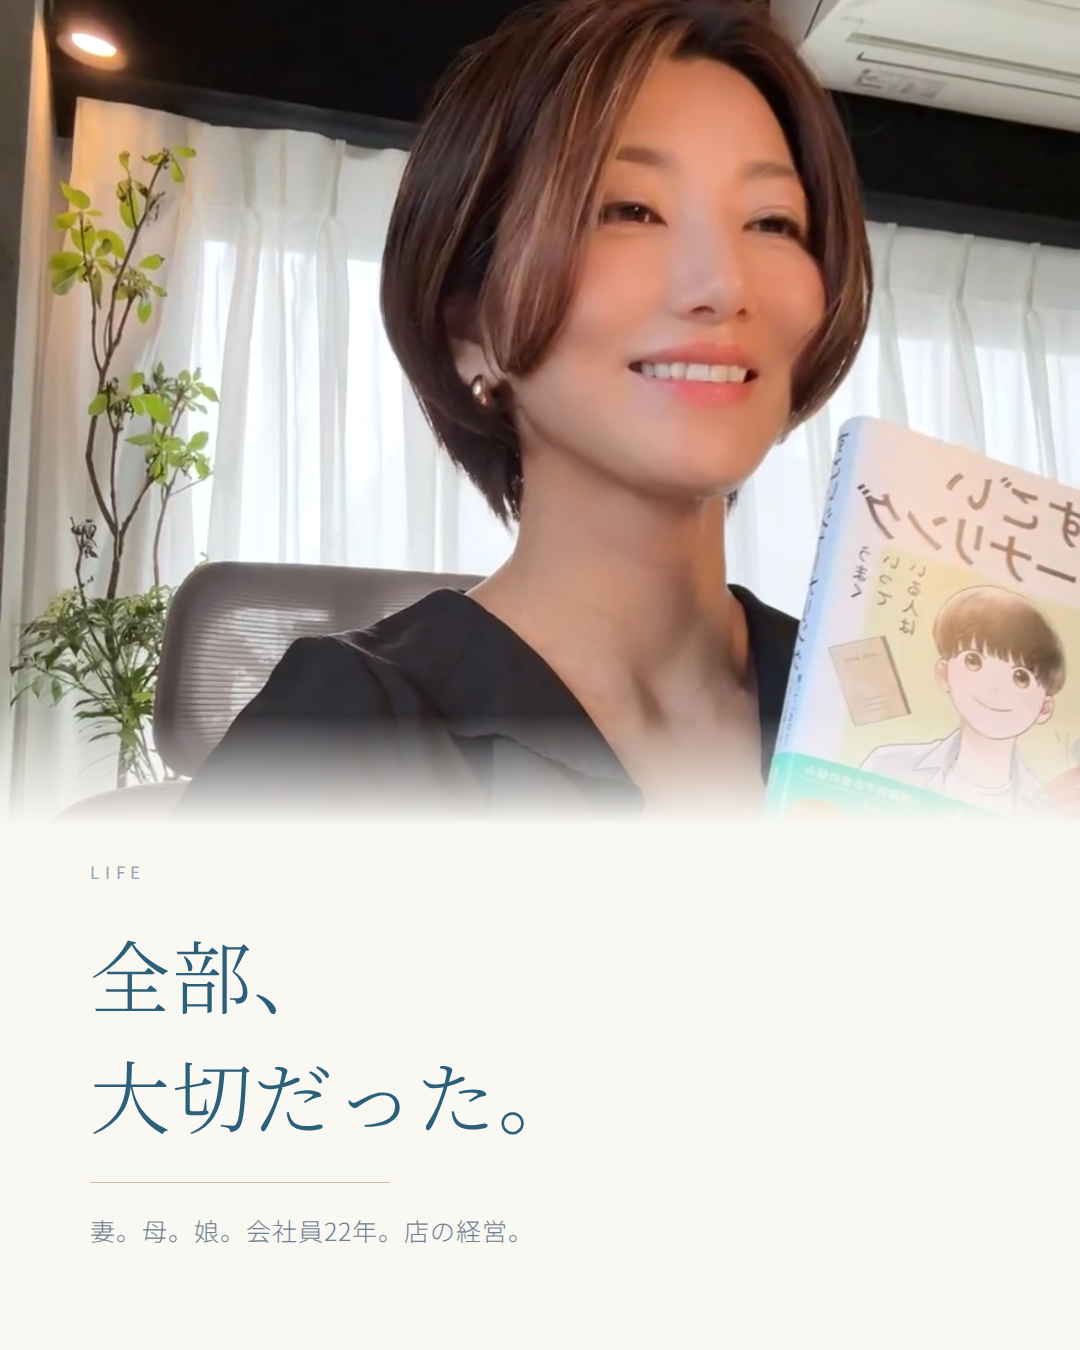
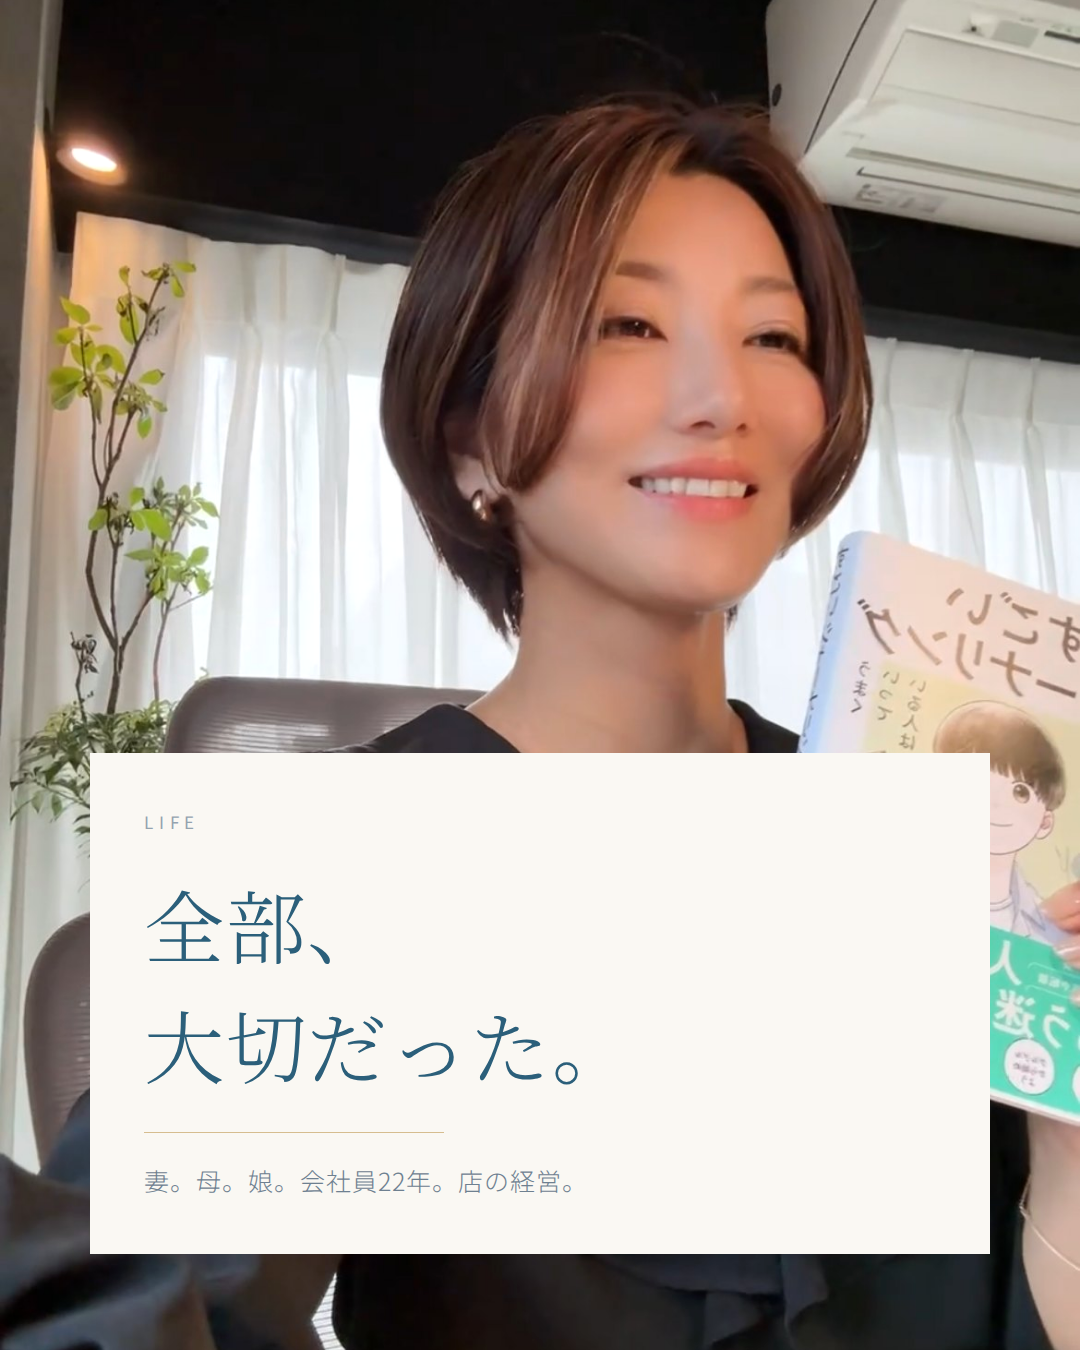
03を上帯へ。02は差し替え前の版が正、ゴールドのベタ矩形案は不採用
- 02の正は、面が約43%・上寄せ・飾りなしの版。
  ゴールドのベタ矩形を左上に置いた版は不採用にしたので仕様から外した。
  ベタの図形は線画より強く、写真より先に目に入る
- 03は未投稿なので型を変えられる。縦割り案は02の隣に来て同じ形が2枚並ぶため、
  上帯にした。写真は本人が下寄りで上は尖塔と空なので、帯で隠れない
- 01を place: 'box' に。投稿済みの01は浮かぶ箱だった
- グリッドの型の割り当てを組み直した。実際の並びで辺が接する12か所すべてで
  型が違う。斜めは接していないので03と05が同じ上帯でも問題ない
- 縦割りの規則を投稿済みの02だけから取り直した。
  境目をぼかしてあれば文字が1〜2文字ぶん写真側へ出ても読める（02のサブ）

diff --git a/src/instagram9/posts.js b/src/instagram9/posts.js
@@ -50,17 +50,20 @@ Rie｜${SERIES_TAGLINE}
  * 写真は暗くしない。白文字を写真に直接置く案は採らない。
  * 実際の写真で試すと、暗くしないと読めず、暗くすると写真の光が死ぬ。
  *
- * ── 投稿済みの3枚（本人が外部で制作）───────────────────
- *   01  箱      緑の壁・チューリップ  LIFE        サブあり  フッターなし
- *   02  縦割り  インド                ABOUT ME    サブあり  フッターなし  面は白・約53%・上寄せ
- *   03  縦割り  バルセロナ            GLOBAL WORK サブなし  フッターなし  面はアイボリー・約41%・中央
+ * ── 投稿済みの2枚（本人が外部で制作）───────────────────
+ *   01  箱      緑の壁・チューリップ  LIFE      サブあり  飾りなし
+ *   02  縦割り  インド                ABOUT ME  サブあり  飾りなし  面は約43%・上寄せ
  *
  * ここから確定したこと。
  *   ・フッター（シリーズの一文＋BLOOM LINK）は入れない
- *   ・サブは任意。見出しだけで足りる回は置かない（03）
- *   ・飾りは2種類。細い線画（03）と、角から断ち切った塗りブロック（02の左上）
+ *   ・サブは任意。見出しだけで足りる回は置かない
+ *   ・飾りは細い線画だけ。ゴールドのベタ矩形を置いた案は不採用
+ *     （ベタの図形は線画より強く、写真より先に目に入る）
  *   ・面の幅・色・文字の高さは固定しない。写真側の主役に合わせる
- *   ・見出しだけは面の境目を越えてよい（越える先が明るい部分のときだけ）
+ *   ・境目をぼかしてあれば、文字が1〜2文字ぶん写真側へ出ても読める
+ *
+ * 03は未投稿。縦割りで作った案があるが、02の隣に来て同じ形が2枚並ぶので
+ * 上帯に変える。写真は本人が下寄り、上は尖塔と空なので帯で隠れない。
  *
  * このファイルのPNGは文言と設計の記録で、投稿する表紙そのものではない。
  * 01〜03は本人の制作物が正。04〜09はここが下敷きになる。
@@ -68,9 +71,12 @@ Rie｜${SERIES_TAGLINE}
  *
  * グリッド上の並び（物語の順）
  *
- *   01 箱      02 縦割り  03 縦割り
+ *   01 箱      02 縦割り  03 上帯
  *   04 図      05 上帯    06 箱
  *   07 上帯3枚 08 数字    09 下帯
+ *
+ * 実際の並び（新しい投稿が左上）で、辺で接する12か所すべてが違う型になっている。
+ * 斜めは接していないので、03と05が同じ上帯でも問題ない。
  */
 
 export const posts = [
@@ -79,7 +85,9 @@ export const posts = [
     category: 'LIFE',
     variant: 'bleed',
     photos: ['rie-book.jpg'],
-    place: 'bottom',
+    // 投稿済みの01は浮かぶ箱。写真は緑の壁の前で花を扱っている場面で、
+    // このリポジトリには入っていない（本人が外部で制作）。
+    place: 'box',
     focus: '50% 22%',
     headline: ['全部、', '大切だった。'],
     sub: '妻。母。娘。会社員22年。店の経営。',
@@ -221,14 +229,16 @@ ${PROFILE_FOOTER}`,
     category: 'GLOBAL WORK',
     variant: 'bleed',
     photos: ['barcelona.jpg'],
-    place: 'bottom',
-    focus: '50% 32%',
+    // 上帯。02が縦割りで隣に来るので、同じ形を2枚並べないためにこの型にした。
+    // 本人の写真は下寄りに立っていて、上は尖塔と空。帯を上に置いても隠れない。
+    place: 'top',
+    focus: '50% 72%',
     headline: ['働く場所を変えたら、', '世界が広がった。'],
     sub: '一人旅なんて、もうできないと思っていた。',
     headlineSize: 76,
     role: '働き方と世界。海外ノマド自慢にはしない。',
-    // 写真全面の型は上半分しか見えないので、被写体が上寄りの写真を選ぶ
-    photoNote: 'バルセロナ。建築＋本人が画面の上寄りに入っている写真を選ぶ。',
+    // 上帯の型は下半分しか見えないので、被写体が下寄りの写真を選ぶ
+    photoNote: 'バルセロナ。サグラダ・ファミリア＋本人が画面の下寄りに入っている写真。',
     // note記事「一人旅なんてもうできないと思っていた私が、もう一度できるようになった話」から。
     /*
      * 本人が語った03の中身。

diff --git a/docs/instagram-9-引っ越しセット.md b/docs/instagram-9-引っ越しセット.md
@@ -115,40 +115,23 @@ CATEGORY（英字・小さく・字間を開ける）
 **03はサブを置いていません。** 見出しだけで足りる回は置かなくて構いません。
 写真が強い回ほど、文字は少ないほうがもちます。置かない場合は罫線も一緒に外します。
 
-### 飾りは2種類まで足してよい
+### 小さな飾りは足してよい
 
-投稿済みの2枚に入っている飾りは、この2種類です。
+03には、カテゴリーの上に**細い罫線＋小さなゴールドの光**、
+左下に**細い線画の植物**が入っています。この程度なら足して構いません。
 
-| 種類 | 実例 | 使い方 |
-| --- | --- | --- |
-| **細い線画** | 03のカテゴリー上の罫線＋小さなゴールドの光、左下の植物 | 線は細く（1〜1.3px程度）、くすみゴールドか紺 |
-| **角の塗りブロック** | 02の左上、画面の角から出ているゴールドの矩形 | くすみゴールドのベタ。**画面の角から断ち切る**。小さく |
-
-共通のルール。
-
+- **細い線画だけ。**線は細く（1〜1.3px程度）、くすみゴールドか紺
 - 置くのは**余白の中だけ**。写真や文字に重ねない
-- **1枚に多くて2つ。**全部の枚に入れると装飾が主役になります
-- 塗りブロックは**1枚につき1つ**。2つ置くと図形が主役になります
+- 1枚に多くて2つ。全部の枚に入れると装飾が主役になります
+
+> 一度、02の左上に**ゴールドの塗りの矩形**を角から断ち切って置いた案がありましたが、
+> **採用しませんでした。**ベタの図形は線画より強く、写真より先に目に入ります。
+> 飾りは線画までにとどめます。
 
 ### 縦割りのときの文字の高さ
 
-**上下どちらに寄せても構いません。** 投稿済みの2枚で使い分けています。
-
-- **02** … 上寄せ。下に大きく余白が残る
-- **03** … 中央。上下に均等な余白
-
-面の幅と写真の被写体の高さで決めます。02は写真側のアーチが上寄りなので
-文字も上に揃い、03は本人が下寄りなので文字が中央に来ています。
-**写真側の主役と、文字の塊の高さを合わせる。**
-
-### 見出しは面の境目を少し越えてよい
-
-03の見出し「働く場所を変えたら」は、アイボリー面の右端を越えて写真側まで伸びています。
-越えた先が**ぼかしのかかった明るい部分**なので読めています。
-
-- 越えていいのは**見出しだけ**。カテゴリー・サブ・飾りは面の中に収める
-- 越える先は写真の**明るい部分だけ**。暗い部分に重なったら面の幅を広げる
-- 面から写真への境目は46px程度かけて溶かす。硬い直線の上に文字を置かない
+**上下どちらに寄せても構いません。** 写真側の主役と高さを合わせます。
+02は写真のアーチが上寄りなので、文字も上に揃えて下を大きく空けています。
 
 ### 目指す世界観
 
@@ -168,19 +151,20 @@ CATEGORY（英字・小さく・字間を開ける）
 | **浮かぶ箱** | 文字が箱に入り、写真が四方に残る | 縦位置で余白のある写真。雑誌のページのように見える |
 | **縦割り** | 左がアイボリー、右が写真 | 被写体が**片側**に寄っているとき。02・03がこの形 |
 
-**面の幅は固定しません。** 写真の被写体がどこから始まるかで決めます。
-投稿済みだと02が約53%、03が約41%。文字が入る幅が変わるので、見出しの行数もそれに合わせます。
+**面の幅は固定しません。** 写真の被写体がどこから始まるかで決めます。投稿済みの02は約43%。
+文字が入る幅が変わるので、見出しの行数もそれに合わせます。
 
-- 見出しが長いとき … **3行**に割って字を小さくし、面を**広め**に取る（02がこの形）
-- 見出しが短いとき … **2行**のままで大きく置ける（03がこの形）
+- 見出しが長いとき … **3行**に割って字を小さくする（02がこの形）
+- 見出しが短いとき … **2行**のままで大きく置ける
 
 狭い面に長い見出しを2行のまま入れると、語の途中で折り返して読めなくなります。
 
-**面の色はアイボリーか白のどちらでも構いません。**
-写真が暖色寄りなら白、写真が寒色寄りならアイボリー、という選び方をしています
-（02のインドは石の色が暖かいので白、03のバルセロナは空が青いのでアイボリー）。
+**面の色はアイボリーか白のどちらでも構いません。** 写真が暖色寄りなら白、寒色寄りならアイボリー。
+02のインドは石の色が暖かいので白を使っています。
 
 写真との境目は**硬い直線にせず、46px程度かけて溶かします。**
+溶かしてあれば、文字が境目を**1〜2文字ぶん越えても読めます**（02のサブがこの形）。
+越える先が写真の暗い部分なら、越えずに面を広げてください。
 
 **帯の位置は好みではなく、写真の被写体がどこにいるかで決まります。**
 帯は画面の約45%を覆うので、被写体のいる側に帯を置くと人物が消えます。
@@ -216,7 +200,7 @@ Instagramのプロフィールは**新しい投稿が左上**に来ます。
 物語の順に並べた設計はこうなっています。
 
 ```
-01 箱        02 縦割り    03 縦割り     ← 投稿済み
+01 箱        02 縦割り    03 上帯       ← 01・02は投稿済み
 04 手順の図  05 上帯      06 箱
 07 上帯3枚   08 数字      09 下帯
 ```
@@ -224,28 +208,31 @@ Instagramのプロフィールは**新しい投稿が左上**に来ます。
 写真は7枚、文字ものは2枚（04・08）。
 **写真を使わない回があるので、素材が揃わなくても投稿が止まりません。**
 
-### 残り6枚をどの型にするか
+### 残り7枚をどの型にするか
 
 プロフィールでの実際の並びは逆なので、こうなります。
 
 ```
 09 下帯      08 数字      07 上帯3枚
 06 箱        05 上帯      04 手順の図
-03 縦割り    02 縦割り    01 箱        ← 投稿済み
+03 上帯      02 縦割り    01 箱        ← 01・02は投稿済み
 ```
 
-見るのは**左右の隣と、真上・真下**です。同じ型が接すると繰り返しに見えます。
+見るのは**辺で接しているところだけ**（左右の隣と、真上・真下）。
+斜めは接していないので、同じ型でも気になりません。
 
-| 位置 | すぐ上が | だから |
+この組み合わせだと、**接している12か所すべてで型が違います。**
+
+| 位置 | 接している相手 | だから |
 | --- | --- | --- |
-| 04 | 01（箱） | **箱にしない**。手順の図なので問題なし |
-| 05 | 02（縦割り） | **縦割りにしない**。上帯にする |
-| 06 | 03（縦割り） | **縦割りにしない**。箱にする（01の箱とは接しません） |
+| 03 | 02（縦割り）・06（箱） | **上帯**。縦割りを2枚並べない |
+| 04 | 01（箱）・05 | 手順の図。箱にしない |
+| 05 | 02（縦割り）・04・06・08 | **上帯**。縦割りにしない（02の真上なので接します） |
+| 06 | 03（上帯）・05・09 | **箱**。01の箱とは接しません |
 
-**下の段は縦割りが2枚続いています。** 03と02が両方とも「左アイボリー・右写真」なので、
-並ぶと同じ形の繰り返しに見えます。すでに投稿済みなので直せませんが、
-**04〜09では縦割りをしばらく使わない**ほうが全体のリズムが戻ります。
-使うとしても07以降、離れた位置にしてください。
+**縦割りを2枚接させない。** これが一番目につきます。
+02の隣（03）と真上（05）は、必ず別の型にしてください。
+03と05はどちらも上帯ですが、**斜めなので接していません。**
 
 ---
 
@@ -264,19 +251,23 @@ Instagramのプロフィールは**新しい投稿が左上**に来ます。
 ### 02｜ABOUT ME
 - **見出し**「19年勤めた／ 会社を、／ 辞めた」（縦割りなので3行。句点なし）
 - **サブ**「会社が嫌になったから、／ ではなく。」
-- **構成** 縦割り。左が白の面・約53%、右に写真。文字は**上寄せ**。
-  飾りは**左上の角から断ち切ったゴールドの矩形**。罫線は面の幅いっぱいまで伸ばす
+- **構成** 縦割り。左が明るい面・約43%、右に写真。文字は**上寄せ**で、下は大きく空ける。
+  飾りなし
 - **意図** 決断。脱サラ成功物語にしない。会社員時代を否定しない
 - **写真** インド（アグラ城の大理石の間）。**投稿済み**
 
 ### 03｜GLOBAL WORK
 - **見出し**「働く場所を変えたら／ 世界が広がった。」
 - **サブ** なし（見出しだけで足りたので置いていません）
-- **構成** 縦割り。左アイボリー約41%・右に写真。文字は**中央**。
-  見出しは面の右端を越えて写真の明るい部分まで伸びる。
-  飾りは細い罫線＋ゴールドの光と、左下に植物の線画
+- **構成** **上帯**。文字が上・写真が下。飾りは細い罫線＋ゴールドの光と、植物の線画
 - **意図** 働き方と世界。海外ノマド自慢にはしない
-- **写真** バルセロナ（サグラダ・ファミリア）＋本人。**投稿済み**
+- **写真** バルセロナ（サグラダ・ファミリア）＋本人。**未投稿**
+
+> **縦割りで作った案がありますが、02の隣に来るので型を変えます。**
+> 02が「左が明るい面・右が写真」なので、03も縦割りだと同じ形が2枚並びます。
+> この写真は**本人が画面の下寄り**にいて、上はサグラダ・ファミリアの尖塔と空なので、
+> **上に帯を置けば本人は隠れません。**縦割り案の要素（ゴールドの光・植物の線画）は
+> そのまま帯の中と余白に移せます。
 
 > 以前この回のサブは「17日間で3カ国へ。それでも、仕事は止まらなかった。」でした。
 > 事実確認の取れない数字だったので**使いません。**
